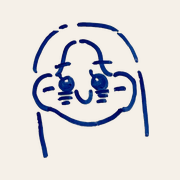
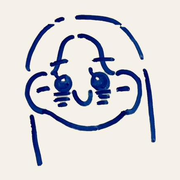
파일 또 교체함

Changed region(s): [[0.1111, 0.0556, 0.8889, 0.9444]]

diff --git a/common_core.js b/common_core.js
@@ -291,14 +291,14 @@ window.toDateStr = function(d){
   background:rgba(10,10,15,0.82);backdrop-filter:blur(3px);-webkit-backdrop-filter:blur(3px);opacity:1;transition:opacity 0.35s ease;}
 .theme-ivory .somi-load-overlay{background:rgba(245,240,232,0.85);}
 .somi-load-overlay.hide{opacity:0;pointer-events:none;}
-.somi-load-img-slot{width:84px;height:84px;display:flex;align-items:center;justify-content:center;}
+.somi-load-img-slot{width:100px;height:100px;display:flex;align-items:center;justify-content:center;}
 .somi-load-img-slot img{width:100%;height:100%;object-fit:contain;border-radius:20px;}
-.somi-load-spinner{width:52px;height:52px;border-radius:50%;position:relative;display:flex;align-items:center;justify-content:center;}
+.somi-load-spinner{width:80px;height:80px;border-radius:50%;position:relative;display:flex;align-items:center;justify-content:center;}
 /* 회전은 가상요소 링만 담당 → 안쪽 아이콘은 고정 */
-.somi-load-spinner::before{content:"";position:absolute;inset:0;border:4px solid var(--border);border-top:4px solid var(--accent);border-radius:50%;animation:spin 0.8s linear infinite;}
+.somi-load-spinner::before{content:"";position:absolute;inset:0;border:5px solid var(--border);border-top:5px solid var(--accent);border-radius:50%;animation:spin 0.8s linear infinite;}
 /* 회전 링 안쪽에 정지된 웹앱 아이콘을 틈 없이 딱 맞게 겹침
-   (링 안지름 = 52 - 4*2 = 44px). 링만 회전, 아이콘은 고정. */
-.somi-load-spinner .somi-load-icon{position:relative;width:44px;height:44px;border-radius:50%;object-fit:cover;}
+   (링 안지름 = 80 - 5*2 = 70px). 링만 회전, 아이콘은 고정. */
+.somi-load-spinner .somi-load-icon{position:relative;width:70px;height:70px;border-radius:50%;object-fit:cover;}
 .somi-load-text{color:var(--text);font-size:0.95rem;font-weight:600;letter-spacing:0.5px;}
 .somi-load-sub{color:var(--text2);font-size:0.8rem;margin-top:-8px;}
 .somi-load-slow{color:var(--counting);font-size:0.8rem;display:none;text-align:center;line-height:1.6;max-width:280px;}

diff --git a/somi_ssam_breath.html b/somi_ssam_breath.html
@@ -10,7 +10,7 @@
 <meta name="apple-mobile-web-app-capable" content="yes">
 <meta name="apple-mobile-web-app-status-bar-style" content="default">
 <meta name="apple-mobile-web-app-title" content="소미쌤">
-<link rel="apple-touch-icon" href="./icon180.png">
+<link rel="apple-touch-icon" href="./icon-180.png">
 <title>호흡 · somi_ssam</title>
 <style>
 @import url('https://fonts.googleapis.com/css2?family=Noto+Sans+KR:wght@300;400;500;700;900&family=DM+Mono:wght@400;500&display=swap');

diff --git a/somi_ssam_home.html b/somi_ssam_home.html
@@ -10,7 +10,7 @@
 <meta name="apple-mobile-web-app-capable" content="yes">
 <meta name="apple-mobile-web-app-status-bar-style" content="default">
 <meta name="apple-mobile-web-app-title" content="소미쌤">
-<link rel="apple-touch-icon" href="./icon180.png">
+<link rel="apple-touch-icon" href="./icon-180.png">
 <title>소미쌤 · 관리</title>
 <style>
 @import url('https://fonts.googleapis.com/css2?family=Noto+Sans+KR:wght@300;400;500;700;900&family=DM+Mono:wght@400;500&display=swap');

diff --git a/somi_ssam_rhythm_groove.html b/somi_ssam_rhythm_groove.html
@@ -10,7 +10,7 @@
 <meta name="apple-mobile-web-app-capable" content="yes">
 <meta name="apple-mobile-web-app-status-bar-style" content="default">
 <meta name="apple-mobile-web-app-title" content="소미쌤">
-<link rel="apple-touch-icon" href="./icon180.png">
+<link rel="apple-touch-icon" href="./icon-180.png">
 <title>리듬 · somi_ssam</title>
 <style>
 @import url('https://fonts.googleapis.com/css2?family=Noto+Sans+KR:wght@300;400;500;700;900&family=DM+Mono:wght@400;500&display=swap');

diff --git a/somi_ssam_student.html b/somi_ssam_student.html
@@ -10,7 +10,7 @@
 <meta name="apple-mobile-web-app-capable" content="yes">
 <meta name="apple-mobile-web-app-status-bar-style" content="default">
 <meta name="apple-mobile-web-app-title" content="소미쌤">
-<link rel="apple-touch-icon" href="./icon180.png">
+<link rel="apple-touch-icon" href="./icon-180.png">
 <title>학생 · somi_ssam</title>
 <style>
 @import url('https://fonts.googleapis.com/css2?family=Noto+Sans+KR:wght@300;400;500;700;900&family=DM+Mono:wght@400;500&display=swap');

diff --git a/index.html b/index.html
@@ -10,7 +10,7 @@
 <meta name="apple-mobile-web-app-capable" content="yes">
 <meta name="apple-mobile-web-app-status-bar-style" content="default">
 <meta name="apple-mobile-web-app-title" content="소미쌤">
-<link rel="apple-touch-icon" href="./icon180.png">
+<link rel="apple-touch-icon" href="./icon-180.png">
 <title>somi_ssam</title>
 <style>
 @import url('https://fonts.googleapis.com/css2?family=Noto+Sans+KR:wght@300;400;500;700;900&family=DM+Mono:wght@400;500&display=swap');

diff --git a/somi_ssam_vocal_lab.html b/somi_ssam_vocal_lab.html
@@ -10,7 +10,7 @@
 <meta name="apple-mobile-web-app-capable" content="yes">
 <meta name="apple-mobile-web-app-status-bar-style" content="default">
 <meta name="apple-mobile-web-app-title" content="소미쌤">
-<link rel="apple-touch-icon" href="./icon180.png">
+<link rel="apple-touch-icon" href="./icon-180.png">
 <title>보컬랩(여성) · somi_ssam</title>
 <script>
 (function(){

diff --git a/somi_ssam_vocal_lab_male.html b/somi_ssam_vocal_lab_male.html
@@ -10,7 +10,7 @@
 <meta name="apple-mobile-web-app-capable" content="yes">
 <meta name="apple-mobile-web-app-status-bar-style" content="default">
 <meta name="apple-mobile-web-app-title" content="소미쌤">
-<link rel="apple-touch-icon" href="./icon180.png">
+<link rel="apple-touch-icon" href="./icon-180.png">
 <title>보컬랩(남성) · somi_ssam</title>
 <script>
 (function(){

diff --git a/COMPLETED.md b/COMPLETED.md
@@ -94,12 +94,13 @@
 - 진짜 원인은 index였음: 학생명단 로컬캐시라 Firebase 준비 전 로그인 시 서버토큰 저장 건너뜀 → index에 "서버 저장 완료 대기(_saved 루프)" 추가.
 - ⚠ iOS 웹앱은 백그라운드 시 OS가 앱을 얼려 onSnapshot 멈출 수 있음 → 복귀 getDoc 보조망이 잡음(정상 범위).
 
-## 아이콘 파일명 — [확정] 하이픈 있음이 정답
+## 아이콘 파일명 — [확정] 하이픈 있음이 정답 (2026-07-09 코드까지 통일 완료)
 - 사장님 실제 폴더/라이브 서버의 진짜 파일명은 `icon-180.png`·`icon-192.png`·`icon-512.png`로 **전부 하이픈 있음**.
   모든 코드 참조(manifest·apple-touch-icon·스피너)는 하이픈 있는 이름. **절대 하이픈 빼지 말 것.**
 - ⚠ 함정: Claude 작업환경의 `/mnt/project` 사본은 파일명이 하이픈 **없이**(`icon192.png`) 들어올 때가 있음.
   이 사본을 "진실"로 믿고 하이픈 빼면 틀림. 진실 기준은 사장님 실제 폴더(=라이브).
-- ※ 이 노티는 로드맵 미해결 "아이콘 누락"과 연결 — 학생 웹앱 아이콘 안 뜨면 참조가 하이픈 없이 잘못됐는지부터 확인.
+- ✅ **[2026-07-09 해결]** 실제로 코드 참조가 하이픈 없이 잘못돼 있었고, 그게 학생 웹앱 아이콘 누락의 진짜 원인이었음.
+  8곳 전부 하이픈으로 통일 완료. 아래 「아이콘 3종 참조 통일 + 확대」 섹션 참조.
 
 ## 배포 체크리스트 (기기 2대)
 - **업로드 전:** vocal_lab_pattern_check 발성2종 ERROR0 / practice_log_system_check 문제0 / node --check common_core / 무한재귀 없음(본문 떼어 실행) / saveData·loadData 공용1벌+폴백 / 깃발 범위(NO_SERVER=index, NO_SERVER_KEYS=student) / PWA캐시 버전표식.
@@ -113,6 +114,59 @@
 - **감시명단 6종:** somi_pattern_locks·pattern_levels·level_settings·class_settings·rest_start_dates·teacher_stamps.
 - **연습기록:** `_appendPracticeLog(profileId,chapter,exercise,duration)` 공용1벌. 중복방지=`__SOMI_LOGGED_THIS_RUN`. 각 페이지 logPractice는 chapter·exercise 조립만.
 - **발성 패턴키:** somi_vocal_patterns(여)/_male(남). 발성 소유, 선생 읽기만. 통합 안 함.
+
+## 아이콘 3종 참조 통일 + 확대 [2026-07-09]
+
+### 문제 (로드맵 미해결 노티 B — 이전 세션부터 이월)
+일부 학생 폰에서 웹앱 홈화면 아이콘이 안 뜨고 기본 글자 아이콘으로 깔림(안드·아이폰 양쪽 사례).
+
+### 진짜 원인 = 파일명 하이픈 불일치
+- 라이브 폴더 실물 = `icon-180.png`·`icon-192.png`·`icon-512.png` (**하이픈 있음**)
+- 그런데 코드 참조 8곳이 하이픈 **없는** `icon180.png` 등을 부르고 있었음 → 404 → 아이콘 미표시.
+- 유일하게 `common_core.js` 로딩 스피너만 하이픈 있는 이름으로 옳게 부르고 있었음(그래서 로딩 아이콘은 잘 나왔음).
+
+### 조치 1 — 참조 통일 (파일 8개)
+`manifest.json`(icons 3줄) + HTML 7개(`index`·`home`·`student`·`breath`·`rhythm_groove`·`vocal_lab`·`vocal_lab_male`의
+`<link rel="apple-touch-icon">`)를 전부 하이픈 있는 이름으로 교체. **하이픈 없는 참조 잔여 0개 검증 완료.**
+
+### 조치 2 — 아이콘 정사이즈 재단
+파일명·manifest 선언 크기와 실물 크기가 달랐음(선언 180/192/512 ↔ 실물 **196/196/532**).
+180과 192는 둘 다 196이라 사실상 같은 그림 두 벌. → 532 원본에서 LANCZOS로 정확히 180·192·512 재생성.
+
+### 조치 3 — 아이콘 여백 축소(그림 확대)
+그림이 캔버스의 70%만 차지해 작아 보였음 → 여백 잘라 **84%**로 확대 + 중앙 정렬.
+※ 84%가 상한선: 폰이 모서리를 둥글게 깎으므로 그 이상 키우면 머리 윤곽선이 잘림.
+
+### 조치 4 — 로딩 화면(인앱) 아이콘 확대 — `common_core.js` 모듈 V
+사장님 요청. 홈화면 아이콘과 **별개** 건임.
+| 항목 | before | after |
+|---|---|---|
+| `.somi-load-img-slot` | 84px | **100px** |
+| `.somi-load-spinner` | 52px | **80px** |
+| 링 두께 | 4px | **5px** |
+| `.somi-load-icon` | 44px | **70px** |
+
+"링 안지름 = 스피너 − 두께×2" 규칙 유지(80−5×2=70) → 링 안에 얼굴이 틈 없이 딱 맞는 원설계 그대로.
+화질 안전: 192px 원본을 70px로 축소 표시라 확대 손상 없음(표시크기 < 파일크기).
+
+### 파일 정리 (사장님 폴더에서 삭제 완료)
+- `icon180.png`·`icon192.png`·`icon512.png` — 하이픈 없는 구 아이콘. 이제 참조 0곳.
+- `calendar_frame_tool.html` — 다 쓴 일회용 달력틀 조절 도구. 참조 0곳, 문서 언급 0곳,
+  저장키 `somi_cal_frame`을 읽는 코드 없음.
+- **남긴 것:** `stamp_adjuster.html`(다음 작업 「도장 인센티브」 때 재사용), 점검 스크립트 2개, 문서 6개.
+- 결과: 23개 → **19개**. 폴더 캡쳐로 실물 대조 검증 완료.
+
+### 검증
+`node --check common_core.js` 통과 / `vocal_lab_pattern_check.js` 발성 2종 ERROR 0 /
+아이콘 3장 실측 180·192·512 확인 / 하이픈 없는 참조 grep 결과 0건.
+
+### 배포 안내 (사장님께 전달한 내용)
+- **12개 덮어쓰기**: `common_core.js`·`manifest.json`·아이콘3·HTML7.
+- **홈화면 아이콘은 재설치 필요.** 폰이 설치 순간의 아이콘을 복사해 보관하므로 서버만 바꿔선 안 바뀜.
+- **로딩 화면은 재설치 불필요.** 켤 때마다 `common_core.js`를 새로 읽으므로 앱 재실행/새로고침만으로 반영.
+  안 바뀌면 PWA 캐시 버전표식 올릴 것.
+
+---
 
 ## 추후 검토 (미결)
 - 옛 연습기록 긴이름→짧은이름 일괄변환 여부(배포 시, 변환 시 somi_logs 백업).

diff --git a/ROADMAP.md b/ROADMAP.md
@@ -59,8 +59,9 @@
 ### 미해결 노티 (다음 세션이 챙길 것)
 - **A. 발성 버튼 그리드 학생기기 실측 미완** — 사장님 노트북은 만족. 폰 등 학생기기에서
   라벨박스보다 작거나 글자 삐져나옴 가능성 남음(네트워크 off라 실측 못함). 학생 피드백 나오면 그 기기 기준 재조정.
-- **B. 아이콘 이미지 누락**(이전 세션부터 이월) — 일부 학생 웹앱 홈화면 아이콘 누락(안드·아이폰 사례).
-  manifest.json·icon*.png 참조 경로 점검 필요. 미진단.
+- ~~**B. 아이콘 이미지 누락**~~ → **[해결 2026-07-09]** 원인=참조 파일명 불일치(코드는 하이픈 없는 `icon180.png`를
+  부르는데 라이브 폴더 실물은 하이픈 있는 `icon-180.png`). 참조 8곳 전부 하이픈으로 통일 + 아이콘 3장 정사이즈 재단.
+  상세는 `COMPLETED.md` 「아이콘 3종 참조 통일 + 확대」 참조.
 
 ---
 

diff --git a/HANDOVER.md b/HANDOVER.md
@@ -87,8 +87,8 @@
 ## ⚠ 미해결 노티 (잊지 말 것)
 - **발성 버튼 그리드 학생기기 실측 미완** — 사장님 노트북은 만족. 폰 등에서 라벨박스보다
   작거나 글자 삐져나옴 가능성 남음(작업환경 네트워크 off라 실측 못함). 학생 피드백 나오면 그 기기 기준 재조정.
-- **아이콘 이미지 누락**(이전 세션부터 이월) — 일부 학생 웹앱 홈화면 아이콘 누락(안드·아이폰 사례).
-  manifest.json·icon*.png 참조 경로 점검 필요. 미진단.
+- ~~**아이콘 이미지 누락**~~ → **[해결 2026-07-09]** 참조 파일명이 하이픈 없이 잘못돼 있던 게 원인.
+  8곳 전부 하이픈으로 통일 완료. 상세=`COMPLETED.md`.
 
 ---
 
